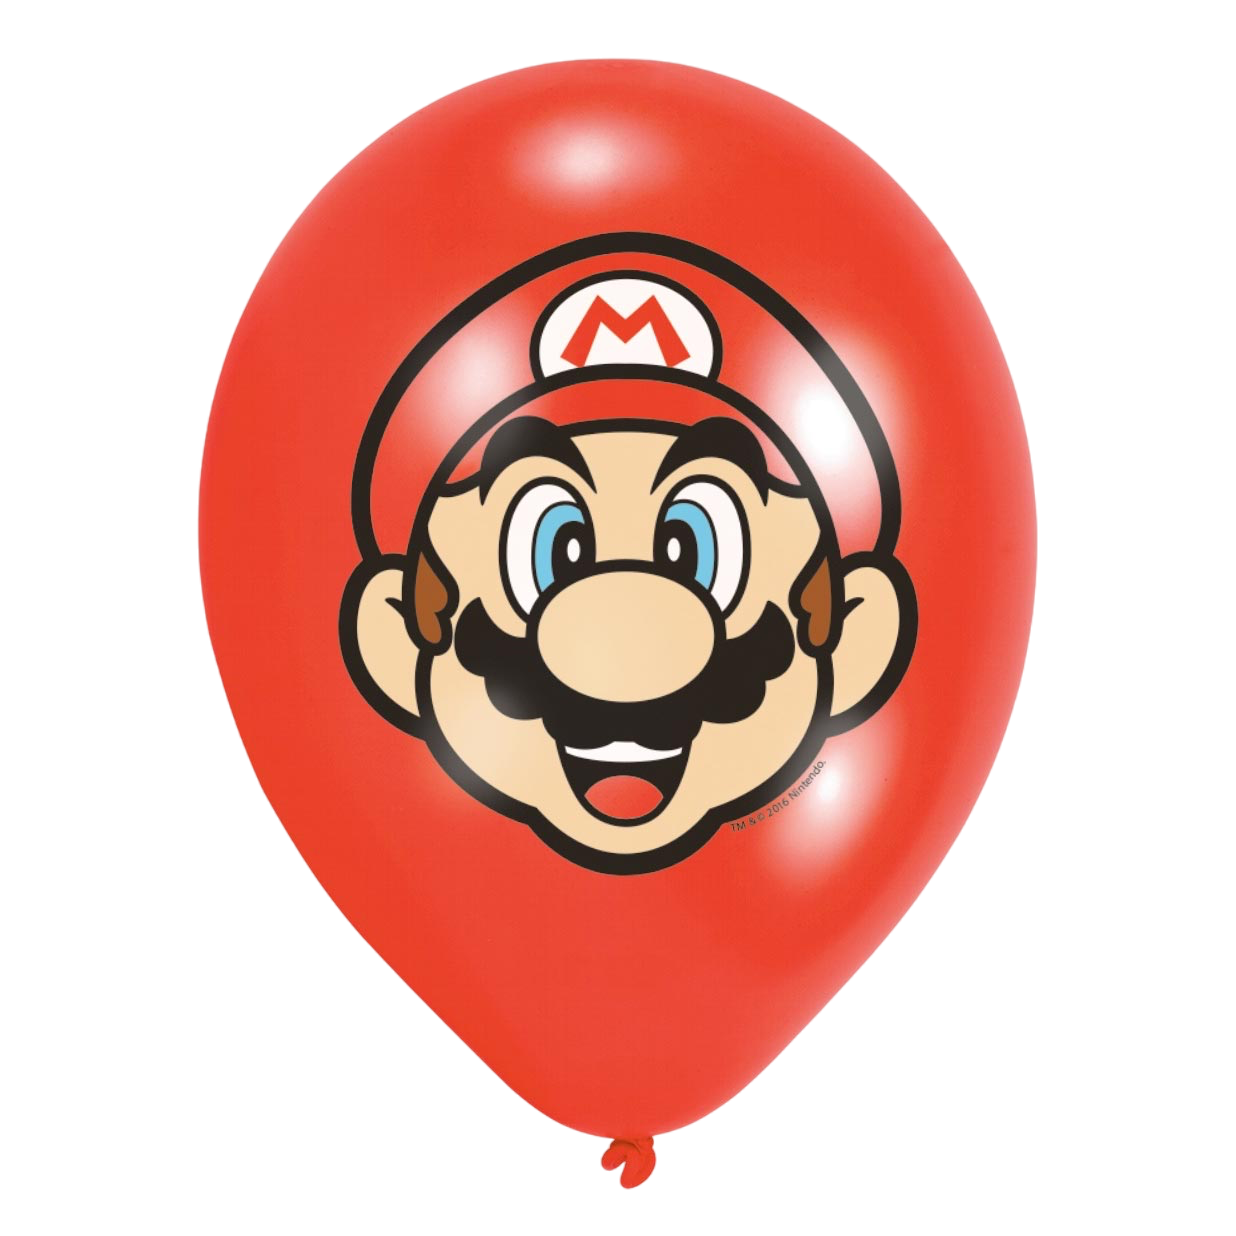
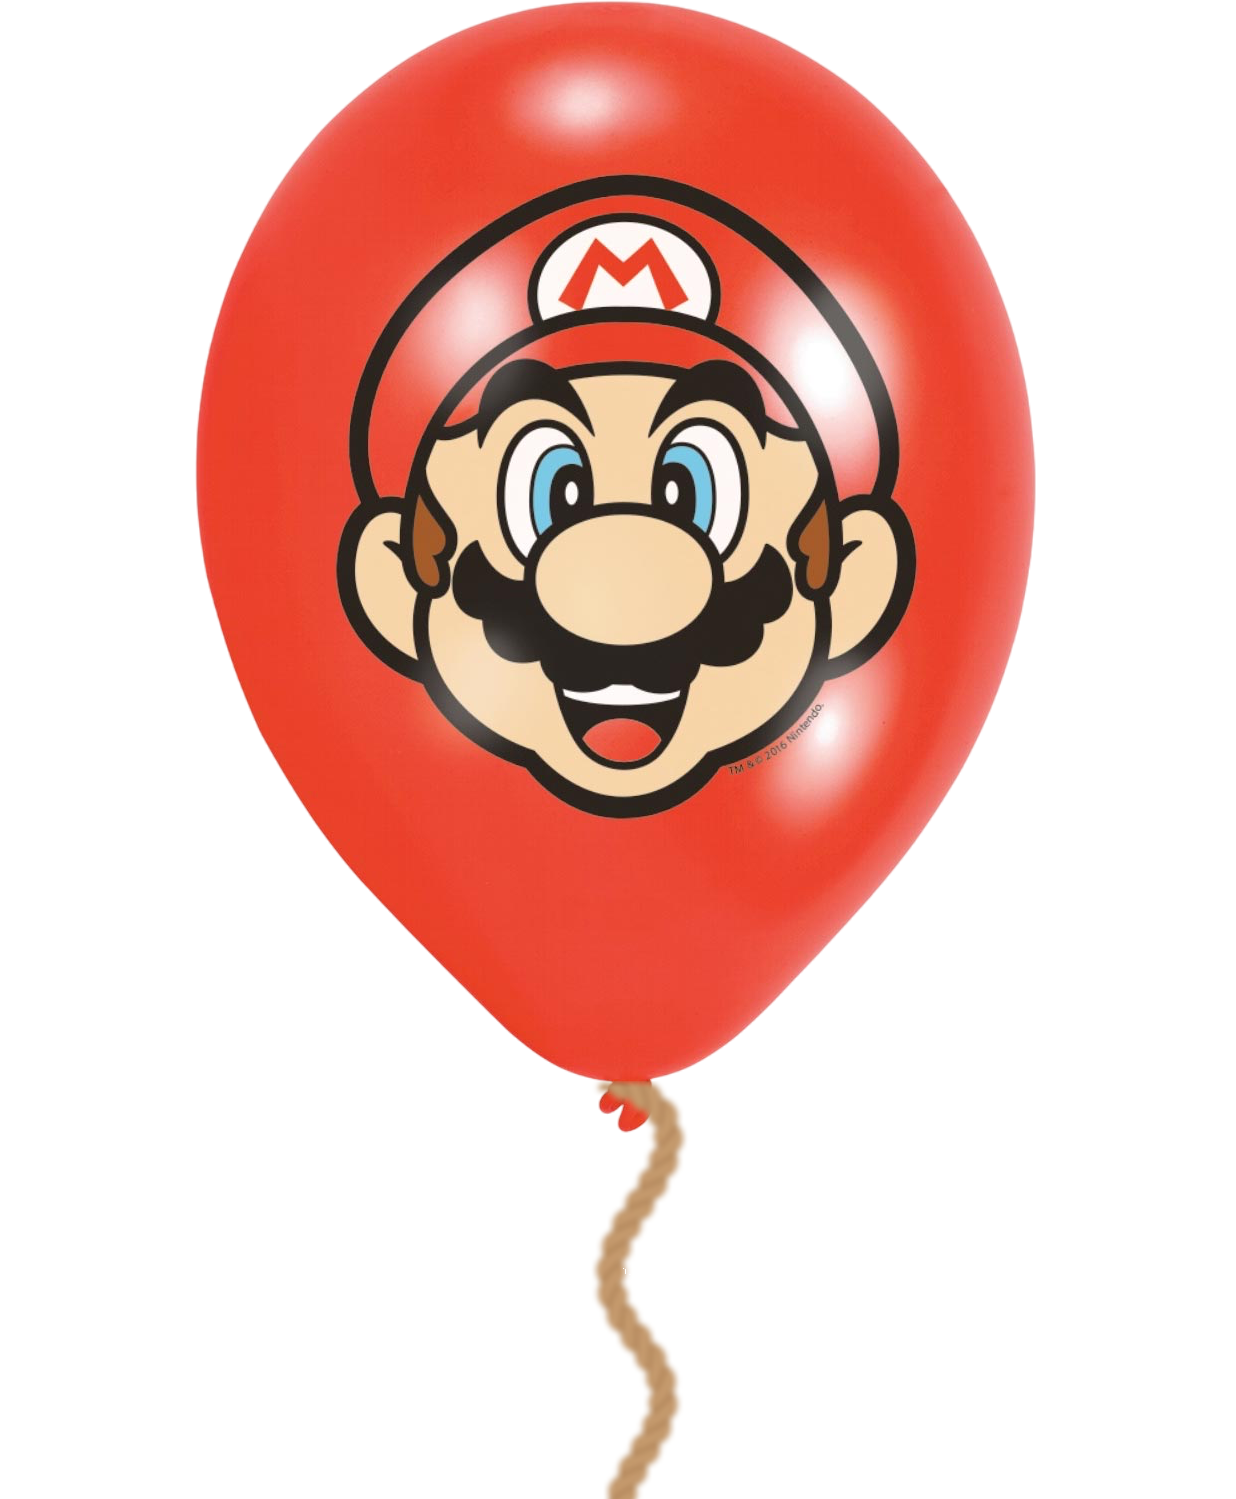
fixed Alert+better Pic

diff --git a/src/main/java/net/rknabe/marioparty/game2/Game2Controller.java b/src/main/java/net/rknabe/marioparty/game2/Game2Controller.java
@@ -18,15 +18,13 @@ import java.util.concurrent.ConcurrentLinkedQueue;
 
 public class Game2Controller implements Initializable {
 
-    private static final int NUM_BALLOONS = 5;
+    private static final int NUM_BALLOONS = 20;
     private final ConcurrentLinkedQueue<Balloon> balloons = new ConcurrentLinkedQueue<>();
     private boolean end = false;
     private int balloonsPopped;
 
     @FXML
     private AnchorPane myAnchorPane;
-    @FXML
-    private ImageView background;
     @FXML
     private ImageView imageView1;
     @FXML
@@ -110,7 +108,7 @@ public class Game2Controller implements Initializable {
                                 Balloon.remove(b);
                                 balloons.remove(b);
                                 updateBalloonsLeft();
-                                endGame(true, false);
+                                endGame(false, false);
                             });
                         }
                         try {
@@ -159,6 +157,11 @@ public class Game2Controller implements Initializable {
     }
 
     protected void endGame(boolean playerWon, boolean reset) {
+        // Check if the game has already ended
+        if (isEnd()) {
+            return;
+        }
+
         setEnd(true);
         balloons.clear();
         redrawCanvas();
@@ -172,7 +175,7 @@ public class Game2Controller implements Initializable {
                 if (playerWon) {
                     Player.increaseScore();
                     alert.setContentText("Sie haben gewonnen!");
-                } else {
+                } else if (!playerWon) {
                     alert.setContentText("Sie haben verloren!");
                     Computer.increaseScore();
                 }

diff --git a/src/main/java/net/rknabe/marioparty/game2/Balloon.java b/src/main/java/net/rknabe/marioparty/game2/Balloon.java
@@ -52,7 +52,7 @@ public class Balloon {
         Image image = new Image(getClass().getResource("/net/rknabe/marioparty/assets/Balloon.png").toExternalForm());
         this.balloonImage = new ImageView(image);
         this.balloonImage.setFitWidth(60);
-        this.balloonImage.setFitHeight(60);
+        this.balloonImage.setFitHeight(73);
         this.balloonImage.setX(this.x);
         this.balloonImage.setY(this.y);
 
